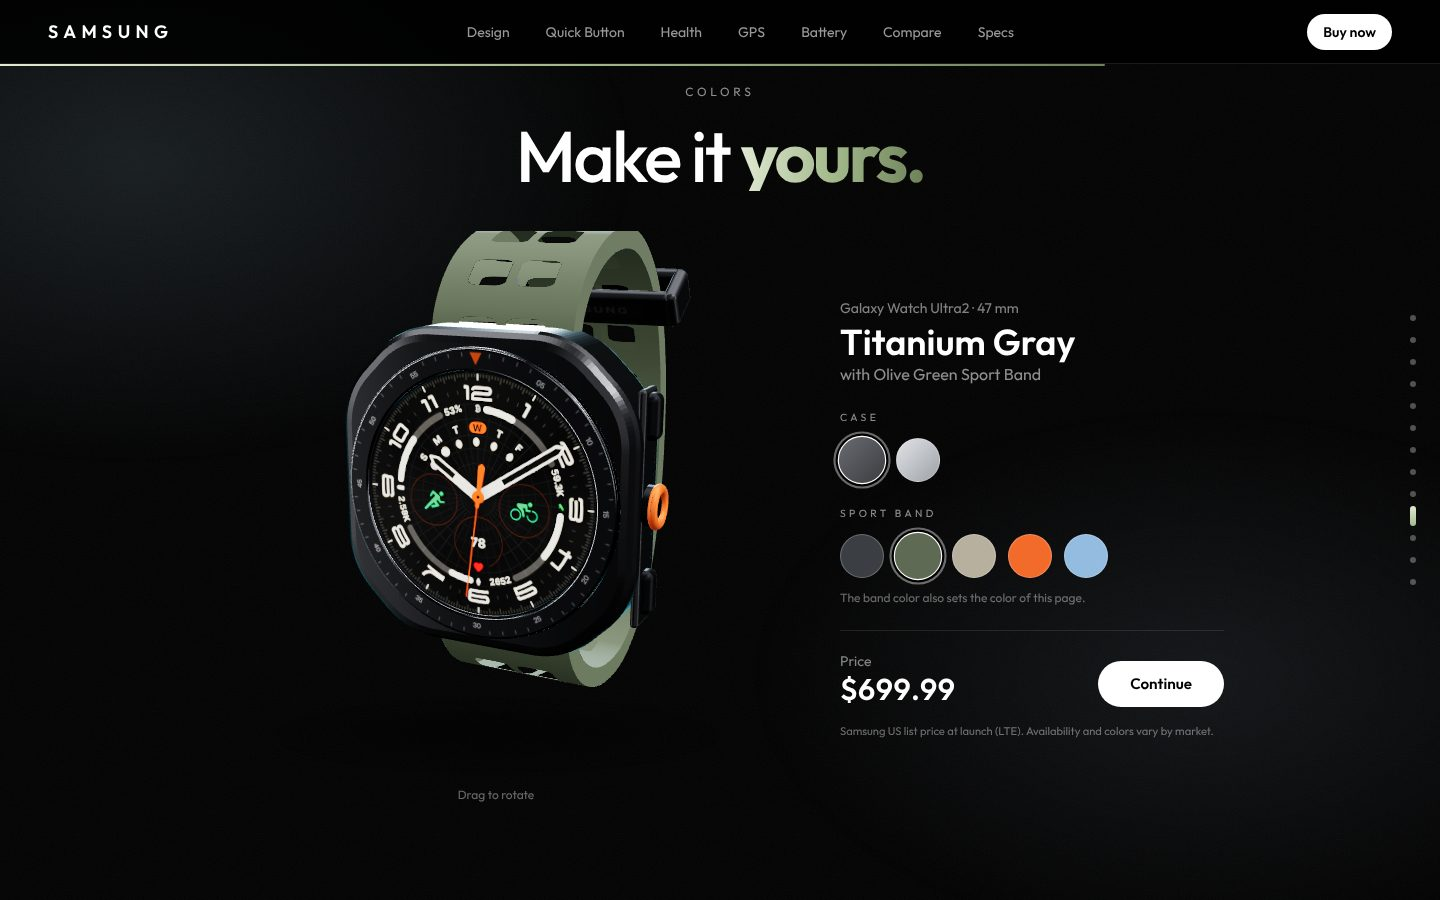
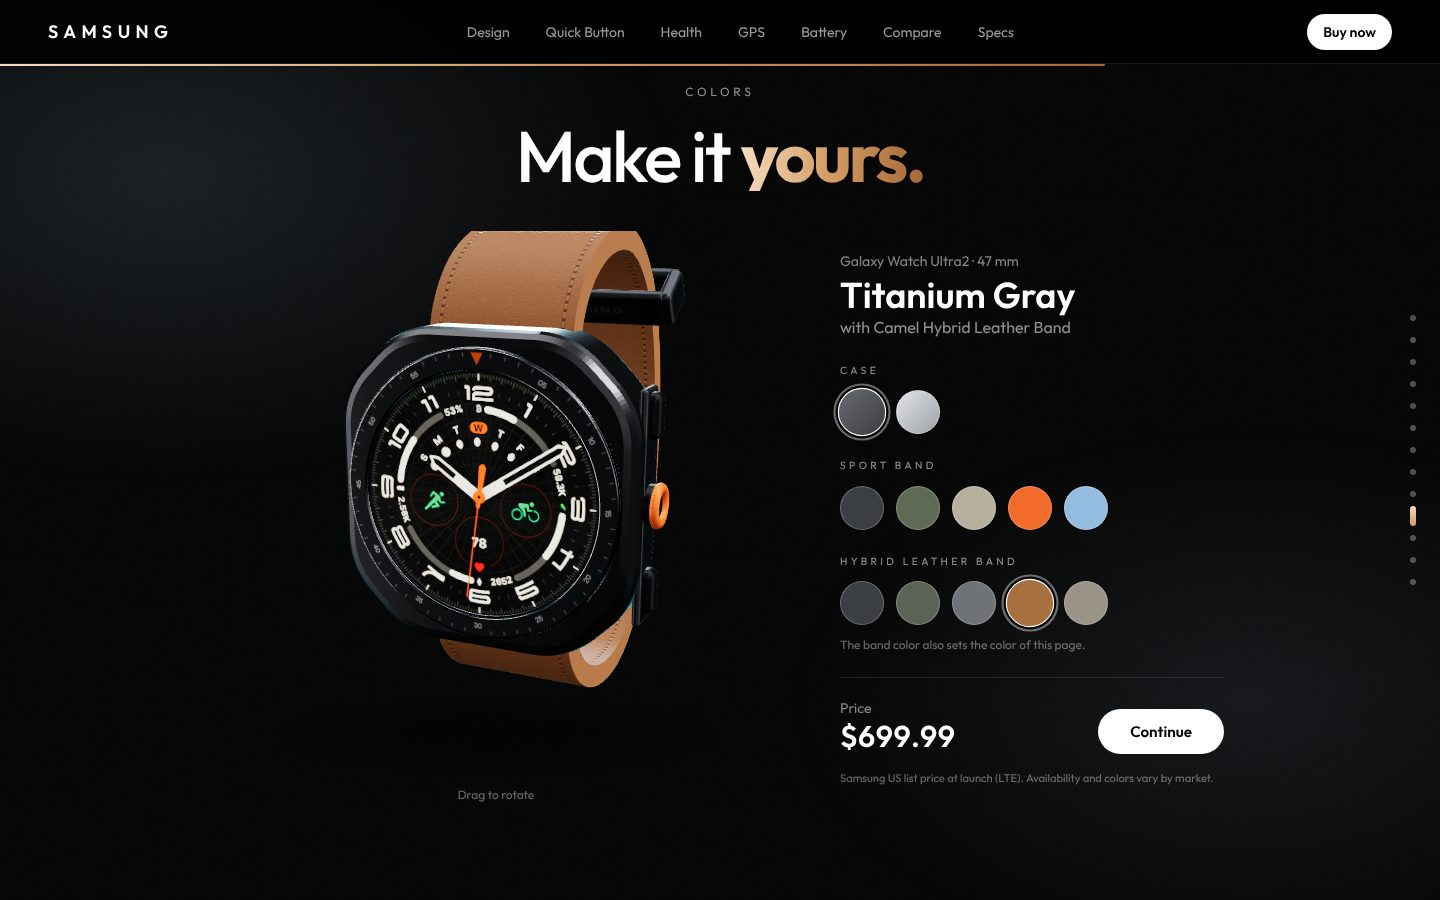
Add Hybrid Leather Band with five colors

Changed region(s): [[0.5625, 0.28, 0.875, 0.8711], [0.2188, 0.2489, 0.4688, 0.7778], [0.5, 0.1556, 0.6562, 0.2178]]

diff --git a/lib/watchModel.ts b/lib/watchModel.ts
@@ -125,6 +125,34 @@ function drawBuckleText(ctx: CanvasRenderingContext2D, W: number, H: number) {
   ctx.fillText('SAMSUNG', W / 2, H / 2 + 1);
 }
 
+function leatherTexture() {
+  const t = canvasTex(256, (ctx, S) => {
+    ctx.fillStyle = '#d9d9d9';
+    ctx.fillRect(0, 0, S, S);
+    let seed = 7;
+    const rnd = () => ((seed = (seed * 16807) % 2147483647) / 2147483647);
+    for (let i = 0; i < 2600; i++) {
+      const v = 200 + Math.floor(rnd() * 40);
+      ctx.fillStyle = `rgb(${v},${v},${v})`;
+      ctx.beginPath();
+      ctx.arc(rnd() * S, rnd() * S, 0.6 + rnd() * 1.6, 0, Math.PI * 2);
+      ctx.fill();
+    }
+    for (const x of [S * 0.075, S * 0.925]) {
+      ctx.fillStyle = 'rgba(0,0,0,0.35)';
+      ctx.fillRect(x - S * 0.012, 0, S * 0.024, S);
+      ctx.fillStyle = '#f2f2f2';
+      for (let y = 0; y < S; y += S / 8) {
+        ctx.beginPath();
+        ctx.roundRect(x - S * 0.009, y + S * 0.015, S * 0.018, S / 8 - S * 0.04, S * 0.009);
+        ctx.fill();
+      }
+    }
+  });
+  t.wrapS = t.wrapT = THREE.RepeatWrapping;
+  return t;
+}
+
 function holeTexture() {
   return canvasTex(
     256,
@@ -241,7 +269,10 @@ export type WatchRig = {
   caseMat: THREE.MeshPhysicalMaterial;
   bezelMat: THREE.MeshPhysicalMaterial;
   band: THREE.Group;
+  sportBand: THREE.Group;
+  leatherBand: THREE.Group;
   bandMats: THREE.MeshStandardMaterial[];
+  leatherMats: THREE.MeshStandardMaterial[];
   displayMat: THREE.MeshPhysicalMaterial;
   anchors: Record<'quick' | 'crystal' | 'titanium' | 'sensor' | 'band', THREE.Vector3>;
 };
@@ -361,7 +392,14 @@ export function buildWatch(faceTex: THREE.Texture, opts: { caseColor?: THREE.Col
   const widthAt = () => 22.5;
   const band = new THREE.Group();
   root.add(band);
-  band.add(ribbon(path, widthAt, 3.2, 500, bandFace, bandEdge, 9));
+  const sportBand = ribbon(path, widthAt, 3.2, 500, bandFace, bandEdge, 9);
+  band.add(sportBand);
+  const leather = leatherTexture();
+  const leatherFace = new THREE.MeshStandardMaterial({ color: bandColor, map: leather, bumpMap: leather, bumpScale: 0.6, roughness: 0.7, metalness: 0, envMapIntensity: 0.25, side: THREE.DoubleSide });
+  const leatherEdge = new THREE.MeshStandardMaterial({ color: bandColor, roughness: 0.75, metalness: 0, envMapIntensity: 0.2, side: THREE.DoubleSide });
+  const leatherBand = ribbon(path, widthAt, 3.6, 500, leatherFace, leatherEdge, 9);
+  leatherBand.visible = false;
+  band.add(leatherBand);
 
   const buckleMat = new THREE.MeshPhysicalMaterial({ color: 0x45474c, metalness: 0.9, roughness: 0.32, envMapIntensity: 0.8 });
   const t = 0.33;
@@ -398,7 +436,10 @@ export function buildWatch(faceTex: THREE.Texture, opts: { caseColor?: THREE.Col
     caseMat: titanium,
     bezelMat: bezelTop,
     band,
+    sportBand,
+    leatherBand,
     bandMats: [bandFace, bandEdge],
+    leatherMats: [leatherFace, leatherEdge],
     displayMat,
     anchors: {
       quick: new THREE.Vector3(W / 2 + 1.6, 0, -0.6),

diff --git a/lib/theme.ts b/lib/theme.ts
@@ -2,8 +2,11 @@
 
 import { useSyncExternalStore } from 'react';
 
+export type BandKind = 'sport' | 'leather';
+
 export type Band = {
   id: string;
+  kind: BandKind;
   name: string;
   color: number;
   swatch: string;
@@ -11,14 +14,22 @@ export type Band = {
 };
 
 export const BANDS: Band[] = [
-  { id: 'black', name: 'Black', color: 0x34373c, swatch: '#3b3e43', accent: ['#eef0f2', '#aab1ba', '#6f7782'] },
-  { id: 'olive', name: 'Olive Green', color: 0x48523f, swatch: '#5f6a55', accent: ['#e0e9d3', '#a4b98c', '#6d8259'] },
-  { id: 'mocha', name: 'Mocha', color: 0xd3cab9, swatch: '#b8b09f', accent: ['#f4ecdd', '#d4c1a1', '#a48c68'] },
-  { id: 'orange', name: 'Orange', color: 0xf26a26, swatch: '#f26b2b', accent: ['#ffc58f', '#ff7a1f', '#ff4d2e'] },
-  { id: 'blue', name: 'Blue', color: 0x9cc3e5, swatch: '#93bce0', accent: ['#dcefff', '#8fc5f2', '#4b8fd1'] },
+  { id: 'black', kind: 'sport', name: 'Black', color: 0x34373c, swatch: '#3b3e43', accent: ['#eef0f2', '#aab1ba', '#6f7782'] },
+  { id: 'olive', kind: 'sport', name: 'Olive Green', color: 0x48523f, swatch: '#5f6a55', accent: ['#e0e9d3', '#a4b98c', '#6d8259'] },
+  { id: 'mocha', kind: 'sport', name: 'Mocha', color: 0xd3cab9, swatch: '#b8b09f', accent: ['#f4ecdd', '#d4c1a1', '#a48c68'] },
+  { id: 'orange', kind: 'sport', name: 'Orange', color: 0xf26a26, swatch: '#f26b2b', accent: ['#ffc58f', '#ff7a1f', '#ff4d2e'] },
+  { id: 'blue', kind: 'sport', name: 'Blue', color: 0x9cc3e5, swatch: '#93bce0', accent: ['#dcefff', '#8fc5f2', '#4b8fd1'] },
+  { id: 'leather-black', kind: 'leather', name: 'Black', color: 0x2c2e32, swatch: '#3b3e43', accent: ['#eef0f2', '#aab1ba', '#6f7782'] },
+  { id: 'leather-olive', kind: 'leather', name: 'Olive Green', color: 0x4b5243, swatch: '#5c6355', accent: ['#e0e9d3', '#a4b98c', '#6d8259'] },
+  { id: 'leather-gray', kind: 'leather', name: 'Gray', color: 0x8a8e93, swatch: '#6f7377', accent: ['#eef1f4', '#b4bcc6', '#7d8692'] },
+  { id: 'leather-camel', kind: 'leather', name: 'Camel', color: 0xa0653a, swatch: '#a8703f', accent: ['#f6dcc0', '#d39a62', '#a5683a'] },
+  { id: 'leather-sand', kind: 'leather', name: 'Sand', color: 0xcdc7bb, swatch: '#9a9488', accent: ['#f2eee6', '#cfc6b6', '#9d9483'] },
 ];
 
 export const DEFAULT_BAND = BANDS[1];
+export const SPORT_BANDS = BANDS.filter((b) => b.kind === 'sport');
+export const LEATHER_BANDS = BANDS.filter((b) => b.kind === 'leather');
+export const KIND_NAME: Record<BandKind, string> = { sport: 'Sport Band', leather: 'Hybrid Leather Band' };
 const KEY = 'ultra2-band';
 
 let current = DEFAULT_BAND;

diff --git a/components/ColorsSection.tsx b/components/ColorsSection.tsx
@@ -4,7 +4,7 @@ import { Canvas, useFrame, useThree } from '@react-three/fiber';
 import { Suspense, useCallback, useEffect, useRef, useState } from 'react';
 import { RimLight, SoftShadow, StudioEnv } from '@/components/StudioEnv';
 import { DEFAULT_VARIANT, VARIANTS, applyBand, applyVariant, poseRig, useWatchRig, type Pose, type Variant } from '@/lib/watchRig';
-import { BANDS, setBand, useBand, type Band } from '@/lib/theme';
+import { KIND_NAME, LEATHER_BANDS, SPORT_BANDS, setBand, useBand, type Band } from '@/lib/theme';
 import { createSpin, stepSpin, useDragSpin } from '@/lib/dragSpin';
 import { prefersReducedMotion } from '@/lib/useReducedMotion';
 import { PRICE } from '@/lib/specs';
@@ -20,7 +20,7 @@ function Product({ variant, band }: { variant: Variant; band: Band }) {
 
   useEffect(() => {
     applyVariant(rig, variant);
-    applyBand(rig, band.color);
+    applyBand(rig, band);
     invalidate();
   }, [rig, variant, band, invalidate]);
 
@@ -124,9 +124,12 @@ export default function ColorsSection() {
         <div className="w-full max-w-sm">
           <p className="text-white/50 text-sm mb-1">Galaxy Watch Ultra2 · 47 mm</p>
           <p className="text-3xl lg:text-4xl font-semibold">{cur.name}</p>
-          <p className="text-white/55 mb-6">with {band.name} Sport Band</p>
+          <p className="text-white/55 mb-6">
+            with {band.name} {KIND_NAME[band.kind]}
+          </p>
           <Swatches label="Case" items={VARIANTS} value={variantId} onChange={setVariantId} />
-          <Swatches label="Sport Band" items={BANDS} value={band.id} onChange={setBand} />
+          <Swatches label="Sport Band" items={SPORT_BANDS} value={band.id} onChange={setBand} />
+          <Swatches label="Hybrid Leather Band" items={LEATHER_BANDS} value={band.id} onChange={setBand} />
           <p className="-mt-3 mb-6 text-xs text-white/40">The band color also sets the color of this page.</p>
           <div className="flex items-end justify-between border-t border-white/10 pt-5">
             <div>

diff --git a/lib/watchRig.ts b/lib/watchRig.ts
@@ -3,7 +3,7 @@
 import { useTexture } from '@react-three/drei';
 import { useMemo } from 'react';
 import * as THREE from 'three';
-import { DEFAULT_BAND } from '@/lib/theme';
+import { DEFAULT_BAND, type Band } from '@/lib/theme';
 import { bezelTexture, buildWatch, type BezelColors, type WatchRig } from '@/lib/watchModel';
 
 export const FACE_URL = '/face/ultra.webp';
@@ -114,8 +114,11 @@ export function applyVariant(rig: Rig, v: Variant) {
   rig.displayMat.emissiveIntensity = v.face === 'white' ? 0.35 : 0.6;
 }
 
-export function applyBand(rig: Rig, color: number) {
-  rig.bandMats.forEach((m) => m.color.setHex(color));
+export function applyBand(rig: Rig, band: Band) {
+  const leather = band.kind === 'leather';
+  rig.sportBand.visible = !leather;
+  rig.leatherBand.visible = leather;
+  (leather ? rig.leatherMats : rig.bandMats).forEach((m) => m.color.setHex(band.color));
 }
 
 export function setBandOpacity(rig: Rig, op: number) {

diff --git a/components/Scene.tsx b/components/Scene.tsx
@@ -97,7 +97,7 @@ function Watch() {
   }, []);
 
   useEffect(() => {
-    applyBand(rig, band.color);
+    applyBand(rig, band);
   }, [rig, band]);
 
   useFrame((state, rawDt) => {

diff --git a/README.md b/README.md
@@ -17,7 +17,7 @@ An interactive, scroll-driven product page for the Samsung Galaxy Watch Ultra2, 
 - **Dual-frequency GPS:** a simulated run through a city, recorded with L1 only or with L1 + L5, so you can see the track drift between tall buildings.
 - **Built tough:** 10ATM, diving to 40 m, IP69K and materials in one switcher.
 - **Battery:** rings for 80 h and 60 h that fill as you scroll, plus the 800 mAh cell and fast charging.
-- **Colors:** Titanium Gray and Titanium Silver cases with five Sport Band colors (Black, Olive Green, Mocha, Orange, Blue). The band you pick also sets the accent color of the whole page and is remembered for your next visit.
+- **Colors:** Titanium Gray and Titanium Silver cases, five Sport Band colors (Black, Olive Green, Mocha, Orange, Blue) and a Hybrid Leather Band with stitched edges in Black, Olive Green, Gray, Camel and Sand. The band you pick also sets the accent color of the whole page and is remembered for your next visit.
 - **Ultra2 vs Watch Ultra:** headline gains and a side-by-side spec table against the first Ultra.
 - **Galaxy ecosystem:** links to its sister projects, the [Galaxy S26 Ultra](https://s27-ultra-concept.vercel.app) and [Galaxy Buds4 Pro](https://buds4-pro-concept.vercel.app) concept sites.
 
